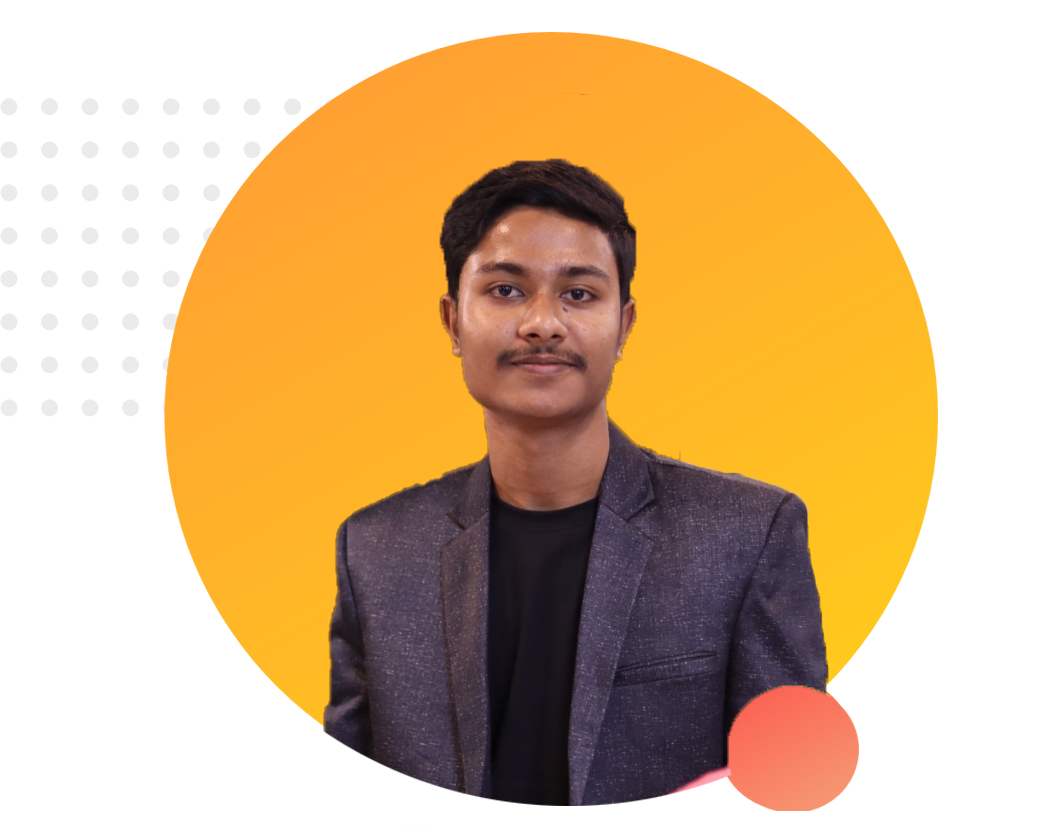
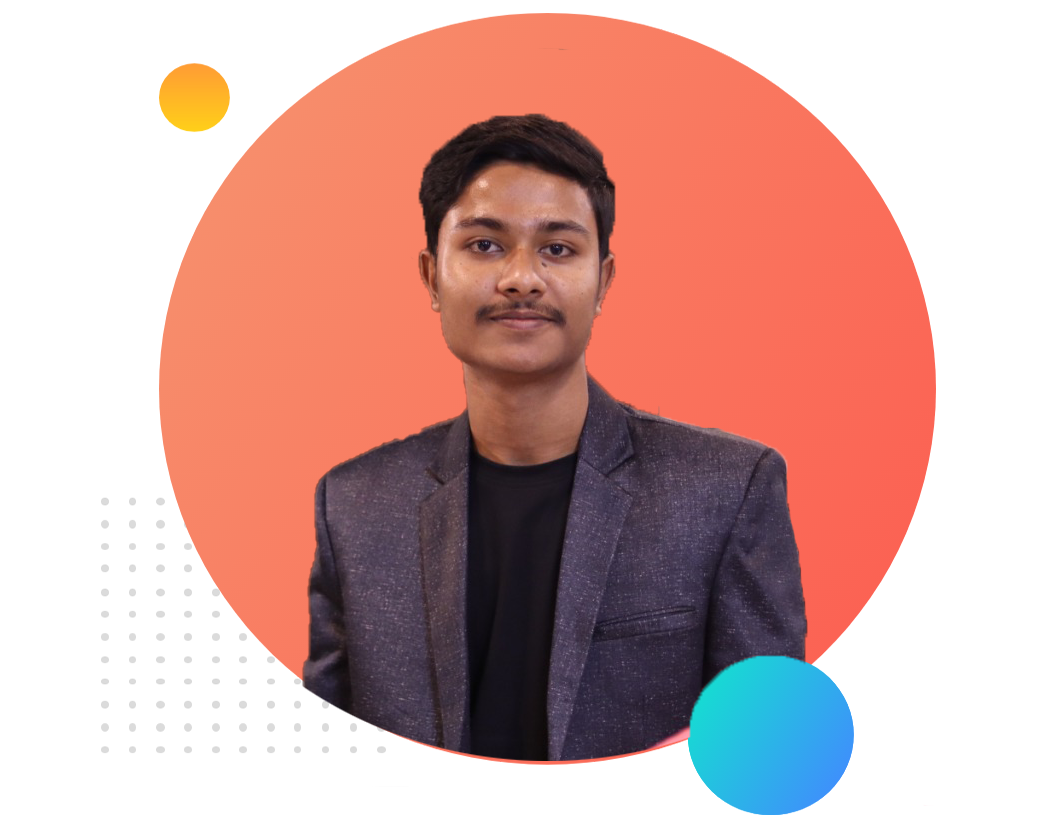
finished

diff --git a/index.html b/index.html
@@ -14,19 +14,54 @@
     <title>Ashadur-Rahman</title>
 </head>
 <body>
-  <section>
+  <section class="top-banner">
       <div class="half-width">
         <h1>Welcome to</h1>
-        <h1> <span class="name-highlight">Ashadur Rahman's</span> Portfolio</h1>
+        <h1> <span class="orange-highlight">Ashadur Rahman's</span> Portfolio</h1>
 
         <h3>World-class Web Developer</h3>
-        <p>Hello! I'm Ashadur Rahman. I'm a professional web developer. I'm a fullstack web developer. I can design world class & resinobel website for my clients to make them satisfy.</p>
+        <p>Hello! I'm Ashadur Rahman. I'm a professional web developer. I'm a fullstack web developer. I can design world class & resinoble website for my clients to make them satisfy.</p>
         
+        <a class="link-button" target="blank" href="https://www.linkedin.com/in/ashadur-rahman-3a5ab8206/">Hire me</a >
+
       </div>
 
       <div class="half-width">
           <img src="images/profile.png" alt="loading image">
       </div>
   </section>
+
+  <section class="second-section">
+        <div class="half-width">
+        <img src="images/i1.png" alt="">
+        </div>
+
+        <div>
+          <h2>BIG DREAM</h2>
+          <h3>Become a world class web designer</h3>
+
+          <p>I wanat to be a World class freelancer on <span class="green"> Fiverr marketplace</span>. I just want to be a top rated seller with my Graphcs & Web developing skill.</p>
+
+      <a class="link-button" target="blank" href="https://docs.google.com/document/d/10KIEzUHBjwnBH_XDyw7vlVurJIQGCBWb/edit">DOWNLOAD RESUME</a>
+        </div>
+  </section>
+
+  <section class="experince-area">
+    <h2 class="center">Skill</h2>
+   <div id="fullstack" class="half-width singel">
+   <h3>Graphcs Design</h3>
+   <p>I'm a Graphcs Designer. I can design banner poster, logo, business card and info graphics. I have over than 2 years of experinces on this field.</p>
+   </div>
+
+   <div id="halfstack" class="half-width singel">
+    <h3>Web Developer</h3>
+    <p>I'm a web developer. Actually I'm professional at html & css. i'm learning java sript.
+      I'm a backend developer. But I'm also learning fullstack developing.
+    </p>
+   </div>
+  </section>
+  <footer>
+   <p> © Ashadur-Rahman 2022, All rights reserved.</p>
+  </footer>
 </body>
 </html>

diff --git a/style.css b/style.css
@@ -1,12 +1,13 @@
 body{
     font-family: 'Poppins', sans-serif;
+    margin: 0px;
 }
 
 h1{
     font-size: 36px;
 }
 
-.name-highlight{
+.orange-highlight{
     color: orange;
 }
 
@@ -20,3 +21,72 @@ h1{
 .half-width img{
     width: 100%;
 }
+
+.top-banner{
+    background-image: url(images/top-banner.png);
+    background-repeat: no-repeat;
+}
+
+section{
+ height: 500px;
+ padding-bottom: 40px;
+}
+
+.link-button{
+    text-decoration: none;
+    background-image: linear-gradient( 45deg, lightsalmon, tomato);
+    padding: 10px 20px;
+    color: white;
+    font-weight: 500;
+    border-radius: 10px;
+}
+
+h2{
+    font-size: 40px;
+}
+
+p{
+    color: dimgray;
+}
+
+.green{
+    color: rgb(8, 143, 8);
+}
+
+.second-section{
+    background-image: url(images/dream-bg.png);
+    background-repeat: no-repeat;
+    background-position: right;
+}
+
+.singel{
+    box-shadow: 10px 10px 40px gray;
+    border-radius: 5px;
+    height: 80%;
+
+}
+
+.experince-area{
+    background-image: url(images/exp-bg.png);
+    background-repeat: no-repeat;
+    background-position: left;
+    
+   
+}
+
+#fullstack{
+    border-left: 7px solid;
+    border-image: linear-gradient(180deg, lightsalmon, tomato);
+    border-image-slice: 1;
+}
+
+#halfstack{
+    border-left: 7px solid;
+    border-image: linear-gradient(180deg, blue, cyan);
+    border-image-slice: 1;
+}
+
+footer p{
+    text-align: center;
+}
+
